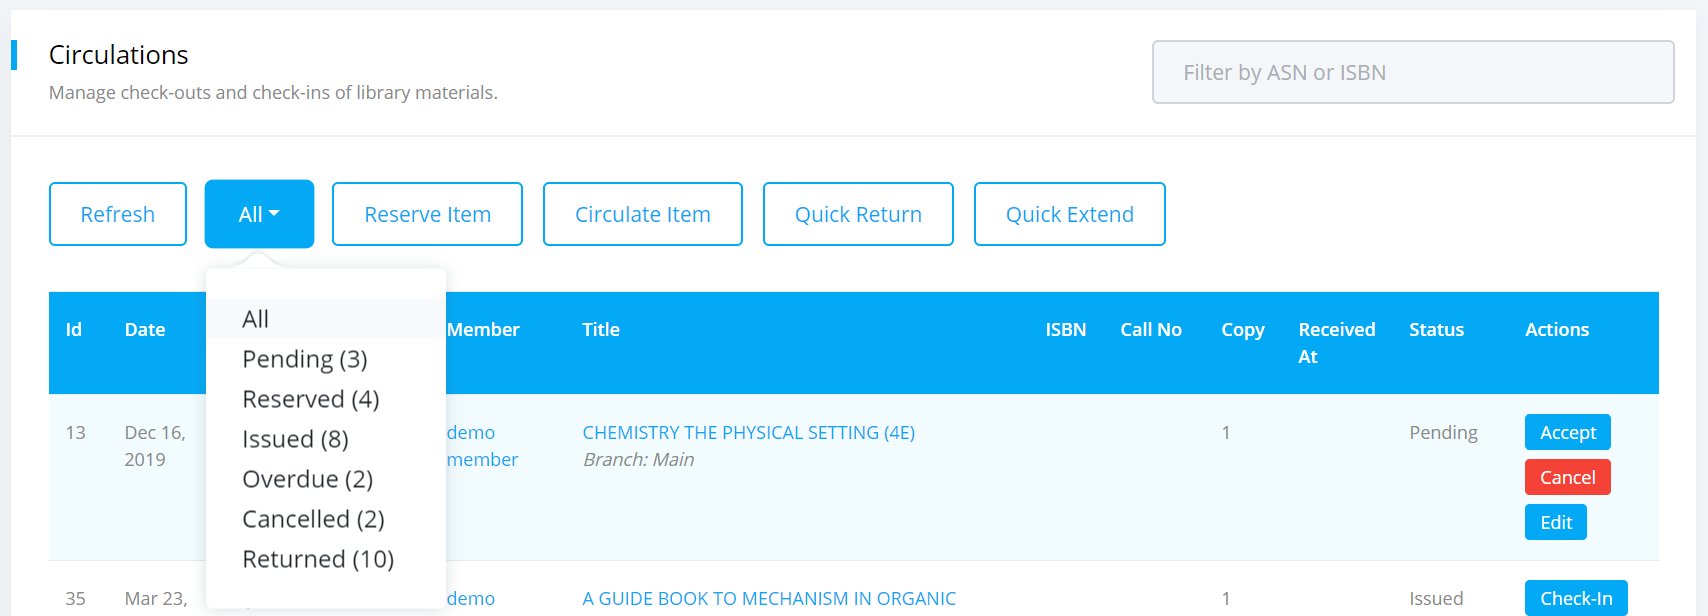
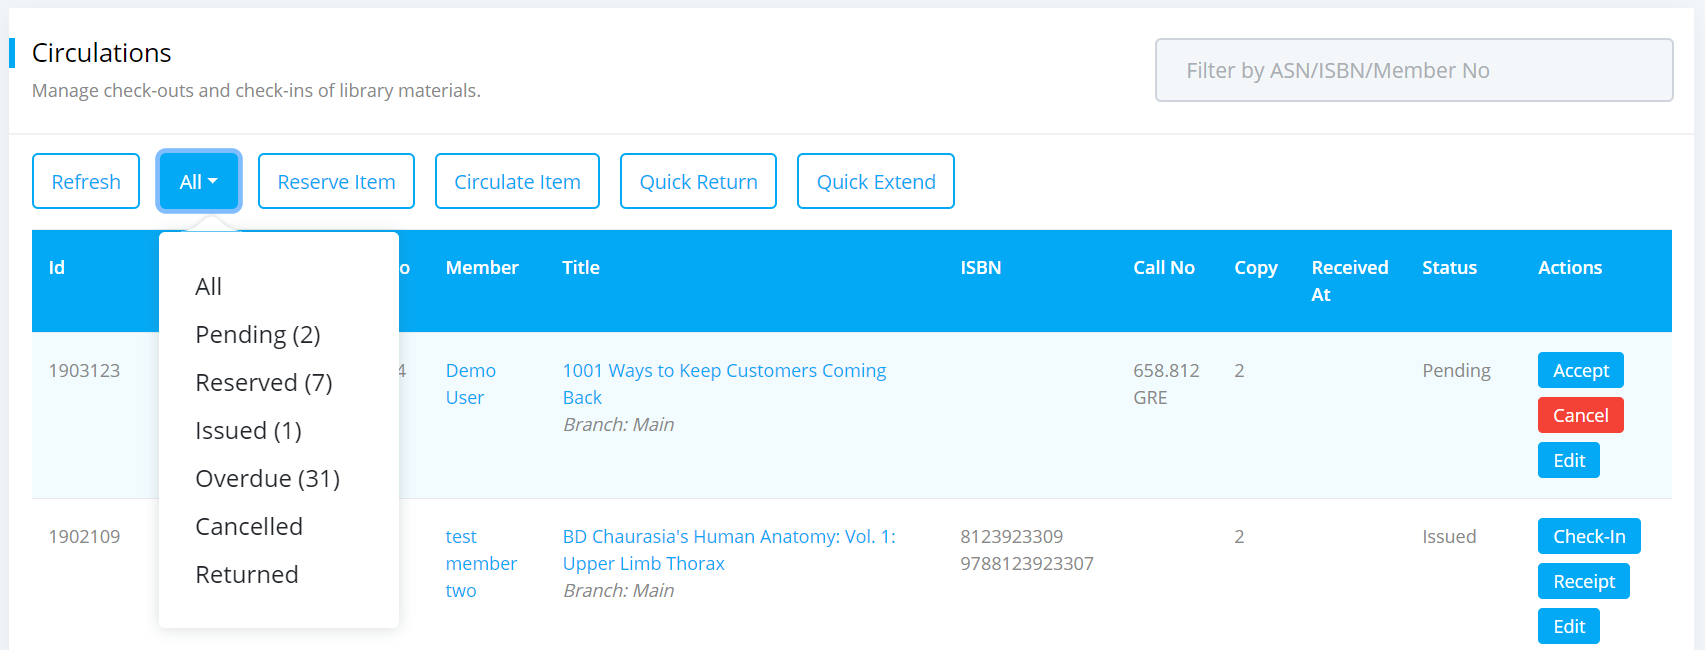
Refactor the circulations & libraries files

diff --git a/docs/libraries.md b/docs/libraries.md
@@ -135,6 +135,7 @@ The preferences section is the single most important settings page for your libr
 	* If you enable the `Notify on Overdue` checkbox then a reminder email will be send after X-hours of the overdue item. 
 	* If you enable the `Remind before due date` checkbox then a reminder email will be send before X-hours of the due date.
 	* If you enable the `Remind on reservation` checkbox then member will receive a reminder email before X-hours of the reservation date.
+	* Here the most important field is the `Notified Librarians` where you can set maximum of five librarians who will receive notification reminders if any member joined or requested a book.
 
 * If you click on the `Appearance` tab then it will be dispalyed as below.
 
@@ -146,6 +147,26 @@ The preferences section is the single most important settings page for your libr
 * From the above tabs you can set / enter / update the value that you want.
 * Click on the `Save Preferences` button to save your changes.
 * Your latest changes will be applied instantly.
+
+---
+
+## Create Library Branch
+
+To create a new library branch or update the information of your previous library branches please follow the below steps.
+
+* Please go to `Dashboard -> Manage -> Library Information` section then click on the **Manage Branches** button.
+* A page will be appeared like below.
+
+	![Library branch page](img/library-branch-page.png)
+
+* Then in the library branches page you will find the **Create New Branch** button.
+* Click on it and an add branch page will be displayed.
+
+	![Library add branch page](img/library-add-branch-page.png)
+
+* Then enter all the information related to your branch and click on the submit button and a new branch will be created.
+* To view all the details of your library branch please click on the `View` button on the next to that branch.
+* If you want to change any branch information then click on the `Edit` button on the next to that branch.
 
 ---
 

diff --git a/docs/circulations.md b/docs/circulations.md
@@ -115,7 +115,7 @@ If you have larger amount of circulation entries then you can use our filtering 
 To use this functionality, please follow the below steps:
 
 * Please go to the `Dashboard -> Circulations -> Circulations` section.
-* In the top corner of circulations page you can see a `Filter by ASN or ISBN` input box. Enter accession number or ISBN of the item in that box.
+* In the top corner of circulations page you can see a `Filter by ASN or ISBN or Member No` input box. Enter accession number or isbn or member no of the item in that box.
 	
 	![Circulations form filter box](img/circulations-form-filter-box.png)
 
